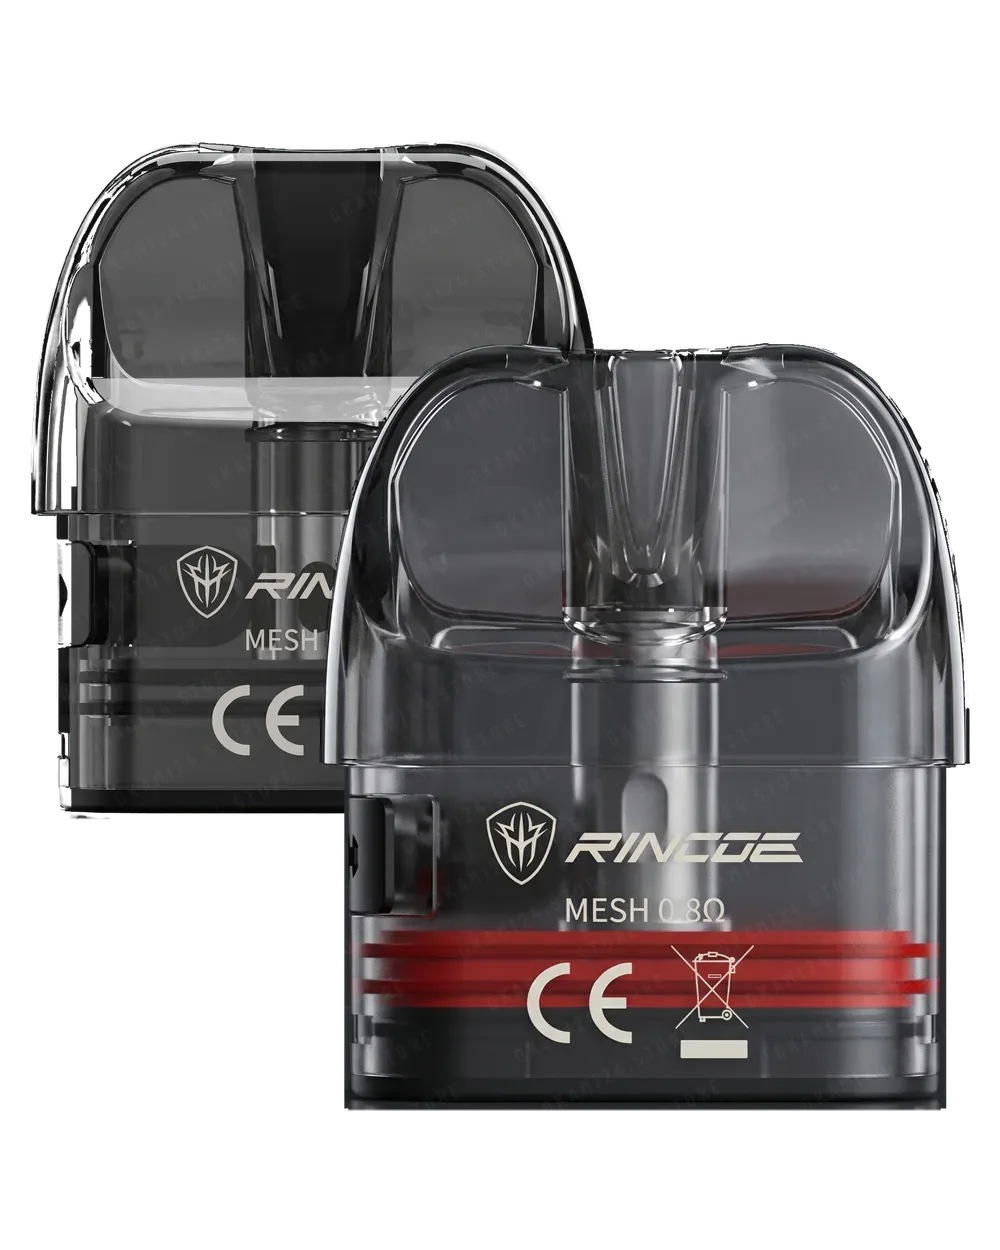
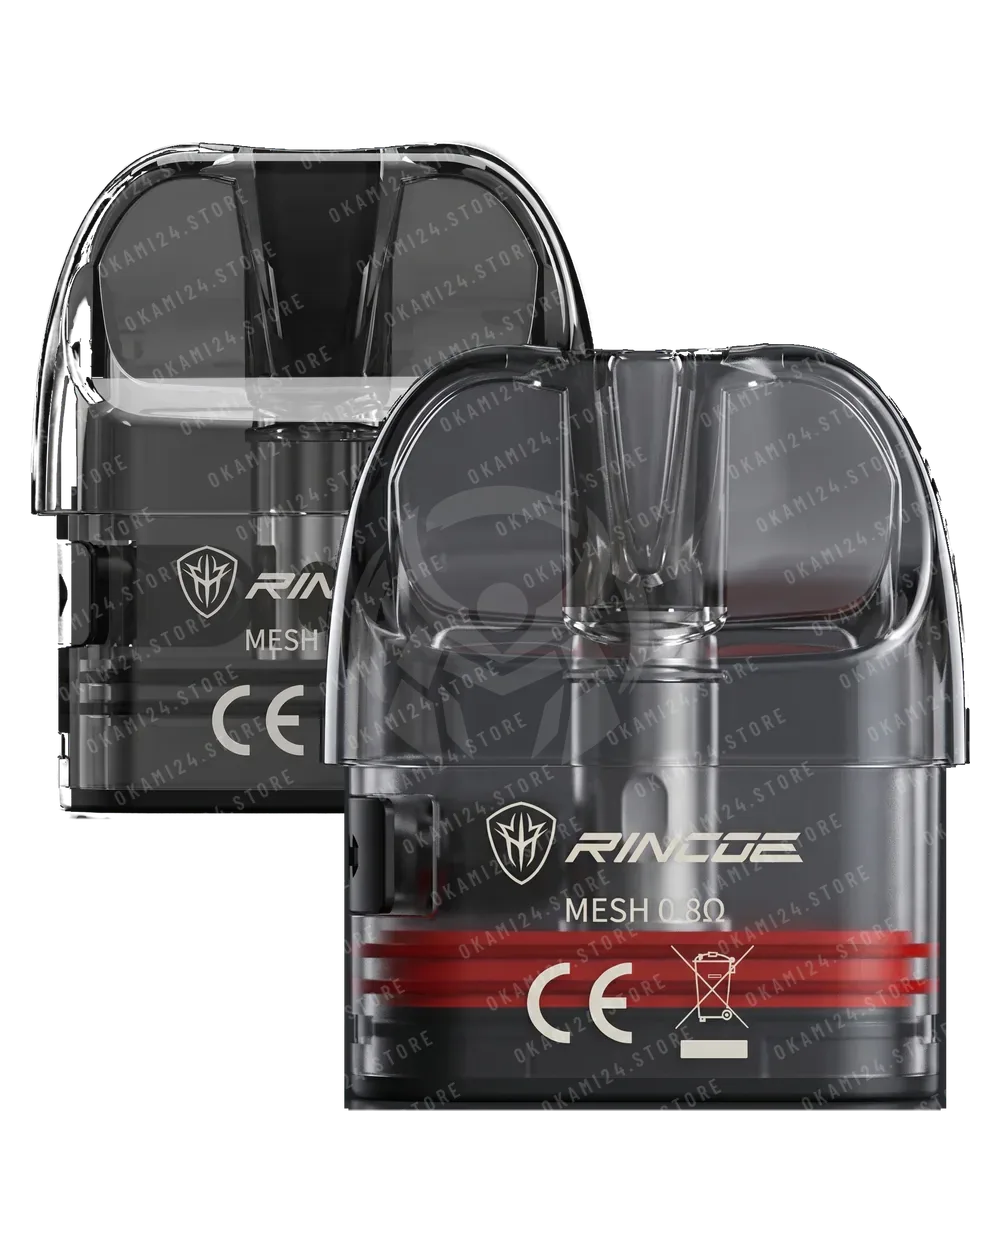
images(watermark): raise the mark to 18/12 so it survives /_next/image
Owner 02/11 "12-18 ได้ทั้งคู่เลย" from the 4-level sheet: the 4/2 mark vanished once
the site re-encodes at 750 wide webp q75. Transparent pictures: text 18% + helmet 12%
on the product only (alpha unchanged, product box unchanged). Opaque posters: tile 12%,
18% inside --zone, helmet 12%. The 3 Rincoe Jellybox V pilot files are regenerated
from the untouched originals on main at the new strength.

diff --git a/scripts/watermark.js b/scripts/watermark.js
@@ -1,12 +1,13 @@
 /* eslint-disable @typescript-eslint/no-require-imports -- plain Node CLI helper, CommonJS on purpose */
 // OKami24 watermark on product photos (owner 02/11, queue item 1 · round queue-0211 batch 3 · IMAGE_SPEC §3).
 //   node scripts/watermark.js [--dry-run] [--keep <dir>] [--zone x0,y0,x1,y1] /assets/products/<slug>/<file> ...
-// Spec at a 1080-wide image, scaled by the image width: the white OKAMI helmet centred, 30% wide, at 2%; "OKAMI24.STORE"
-// (Barlow Condensed 600, 22 px, letter-spacing 0.22em, -28°, columns 250 / rows 64) at 2% over the picture, 4% on the
-// product. Style per file (owner + Javis 02/11, from the two-style sample sheet):
+// Spec at a 1080-wide image, scaled by the image width: the white OKAMI helmet centred, 30% wide, at 12%; "OKAMI24.STORE"
+// (Barlow Condensed 600, 22 px, letter-spacing 0.22em, -28°, columns 250 / rows 64) at 12% over the picture, 18% on the
+// product. Strength = owner 02/11 "12-18 ได้ทั้งคู่เลย" from the 4-level sheet: the first 2/4% vanished once
+// /_next/image re-encodes at 750 wide webp q75. Style per file (owner + Javis 02/11, from the two-style sample sheet):
 //   transparent photo (card · colour · flavour) = on the product's own pixels only: the transparent margin stays clean and
 //     alpha never changes, so the product box src/lib/media-quality.ts measures (alpha trim 10) cannot move;
-//   opaque poster = Javis's way, the whole picture at 2% (+ 4% inside --zone when given).
+//   opaque poster = Javis's way, the whole picture at 12% (+ 18% inside --zone when given).
 // Writes <name>-wm.webp (q82) beside the original — a new name, Cloudflare keeps an old one 30 days (LESSONS-images พ6) —
 // points every reference under src/ at it, then deletes the original from public/ (git history + the --keep copy are the
 // way back). A name already ending in -wm is skipped. Photos from Javis's studio carry this mark already: leave them off.
@@ -17,7 +18,7 @@ const sharp = require("sharp");
 const ROOT = process.env.WM_ROOT || path.join(__dirname, "..");
 const FONT = path.join(__dirname, "lib/watermark/BarlowCondensed-600.ttf");
 const HELMET = path.join(__dirname, "lib/watermark/okami-helmet-white.png");
-const TEXT_ALL = 0.02, TEXT_PRODUCT = 0.04, HELMET_OP = 0.02;
+const TEXT_ALL = 0.12, TEXT_PRODUCT = 0.18, HELMET_OP = 0.12;
 
 async function textMask(W, H) {
   const k = W / 1080, px = 22 * k;
